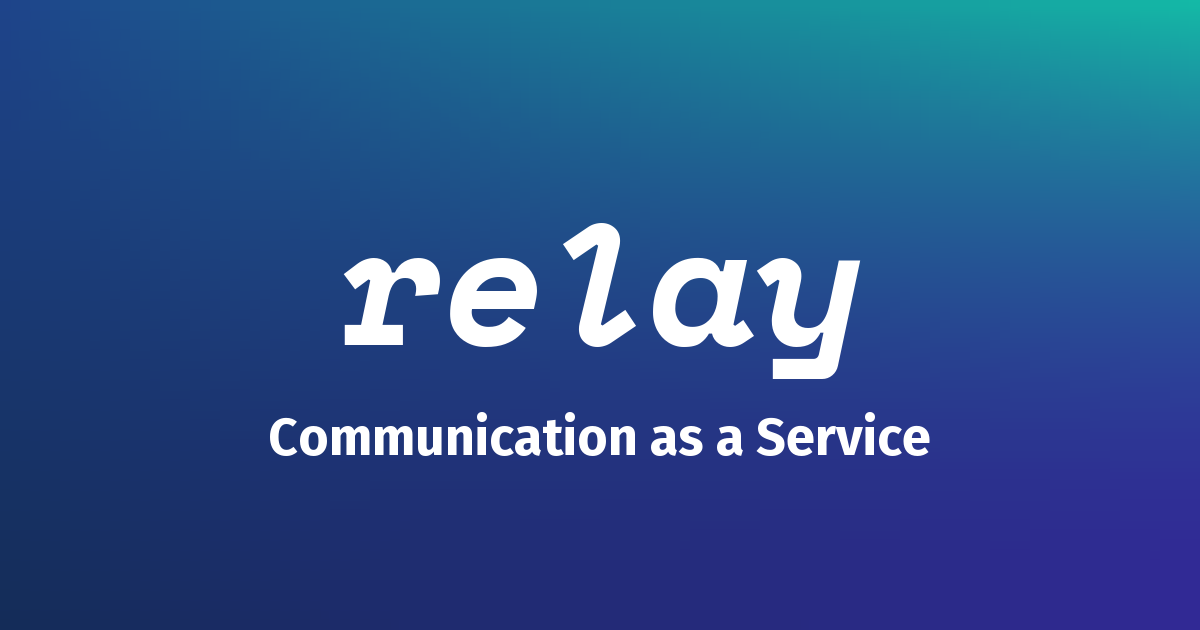
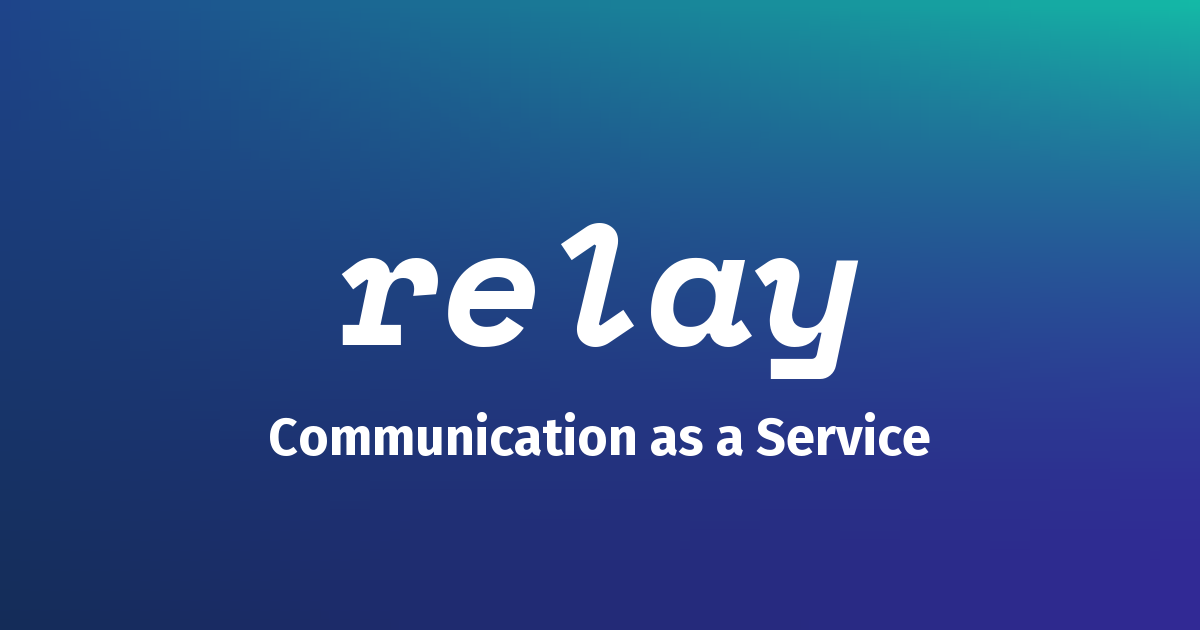
Align share card type by its ink
Place every line by its painted ink instead of font metrics. The header wordmark, descriptor, domain, and status share one left edge. The descriptor centers on the wordmark body, and a rule replaces the hanging glyph divider. Title blocks center exactly, and the brand lockup centers by ink.

diff --git a/abstract/open_graph.py b/abstract/open_graph.py
@@ -36,33 +36,58 @@ class OpenGraphImage:
     def font(self, name: str, size: int) -> ImageFont.FreeTypeFont:
         return ImageFont.truetype(str(self.FONTS_DIR / name), size)
 
-    def draw_wordmark(self, draw: ImageDraw.ImageDraw, label: str) -> None:
-        """Draw the relay wordmark and a label on the same baseline."""
-        left = self.PADDING_PX - 4
-        wordmark = self.font("space-mono-700-italic.ttf", 58)
-        draw.text(
-            (left, self.HEADER_BASELINE_PX),
-            "relay",
-            font=wordmark,
-            fill=self.INK,
-            anchor="ls",
+    def draw_ink_left(
+        self,
+        image: Image.Image,
+        x: float,
+        baseline: float,
+        text: str,
+        font: ImageFont.FreeTypeFont,
+        fill: tuple[int, ...],
+    ) -> float:
+        """Composite text with its leftmost ink on `x` and return its right edge."""
+        layer = Image.new("RGBA", (self.WIDTH_PX, self.HEIGHT_PX), (0, 0, 0, 0))
+        ImageDraw.Draw(layer).text(
+            (0, baseline), text, font=font, fill=fill, anchor="ls"
         )
+        left, _top, right, _bottom = layer.getbbox()
+        image.alpha_composite(layer, (round(x - left), 0))
+        return x + right - left
+
+    def draw_wordmark(self, image: Image.Image, label: str) -> None:
+        """Draw the relay wordmark with a descriptor beside it."""
+        baseline = self.HEADER_BASELINE_PX
+        wordmark_font = self.font("space-mono-700-italic.ttf", 58)
         label_font = self.font("fira-sans-500.ttf", 28)
-        left += draw.textlength("relay", font=wordmark) + 18
-        draw.text(
-            (left, self.HEADER_BASELINE_PX),
-            "|",
-            font=label_font,
-            fill=(*self.INK, 110),
-            anchor="ls",
+        right = self.draw_ink_left(
+            image, self.PADDING_PX, baseline, "relay", wordmark_font, self.INK
         )
-        left += draw.textlength("|", font=label_font) + 18
-        draw.text(
-            (left, self.HEADER_BASELINE_PX),
+        draw = ImageDraw.Draw(image)
+        divider = right + 20
+        label_box = draw.textbbox((0, baseline), label, font=label_font, anchor="ls")
+        x_height = draw.textbbox((0, baseline), "rea", font=wordmark_font, anchor="ls")
+        # Center the descriptor on the wordmark's lowercase body instead of its
+        # baseline, so the pair reads as one lockup.
+        label_baseline = (
+            baseline
+            + (x_height[1] + x_height[3]) / 2
+            - (label_box[1] + label_box[3]) / 2
+        )
+        label_box = draw.textbbox(
+            (0, label_baseline), label, font=label_font, anchor="ls"
+        )
+        draw.rounded_rectangle(
+            (divider, label_box[1], divider + 3, label_box[3]),
+            radius=1.5,
+            fill=(*self.INK, 110),
+        )
+        self.draw_ink_left(
+            image,
+            divider + 20 + 3,
+            label_baseline,
             label,
-            font=label_font,
-            fill=(*self.INK, 200),
-            anchor="ls",
+            label_font,
+            (*self.INK, 200),
         )
 
     def background(self) -> Image.Image:
@@ -121,21 +146,34 @@ class BrandImage(OpenGraphImage):
     TAGLINE_BASELINE_PX: typing.ClassVar[int] = 455
 
     def draw(self, image: Image.Image) -> None:
-        draw = ImageDraw.Draw(image)
-        center_x = self.WIDTH_PX / 2
-        draw.text(
-            (center_x, self.WORDMARK_BASELINE_PX),
+        self.draw_centered(
+            image,
             self.WORDMARK,
-            font=self.font("space-mono-700-italic.ttf", self.WORDMARK_SIZE_PX),
-            fill=self.INK,
-            anchor="ms",
+            self.font("space-mono-700-italic.ttf", self.WORDMARK_SIZE_PX),
+            self.WORDMARK_BASELINE_PX,
         )
-        draw.text(
-            (center_x, self.TAGLINE_BASELINE_PX),
+        self.draw_centered(
+            image,
             self.TAGLINE,
-            font=self.font("fira-sans-700.ttf", self.TAGLINE_SIZE_PX),
-            fill=self.INK,
-            anchor="ms",
+            self.font("fira-sans-700.ttf", self.TAGLINE_SIZE_PX),
+            self.TAGLINE_BASELINE_PX,
+        )
+
+    def draw_centered(
+        self,
+        image: Image.Image,
+        text: str,
+        font: ImageFont.FreeTypeFont,
+        baseline: float,
+    ) -> None:
+        """Center a line on the card by its ink, not its advance width."""
+        layer = Image.new("RGBA", (self.WIDTH_PX, self.HEIGHT_PX), (0, 0, 0, 0))
+        ImageDraw.Draw(layer).text(
+            (0, baseline), text, font=font, fill=self.INK, anchor="ls"
+        )
+        left, _top, right, _bottom = layer.getbbox()
+        image.alpha_composite(
+            layer, (round((self.WIDTH_PX - (right - left)) / 2 - left), 0)
         )
 
 
@@ -156,27 +194,26 @@ class TitleImage(OpenGraphImage):
     TITLE_FONT: typing.ClassVar[str] = "fira-sans-700.ttf"
 
     def draw(self, image: Image.Image) -> None:
-        draw = ImageDraw.Draw(image)
-        self.draw_wordmark(draw, "communication as a service")
-        self.draw_title(draw)
+        self.draw_wordmark(image, "communication as a service")
+        self.draw_title(image)
 
-    def draw_title(self, draw: ImageDraw.ImageDraw) -> None:
+    def draw_title(self, image: Image.Image) -> None:
+        draw = ImageDraw.Draw(image)
         font, lines = self.fit_title(draw)
         spacing = round(font.size * self.TITLE_SPACING_RATIO)
         text = "\n".join(lines)
-        box = draw.multiline_textbbox((0, 0), text, font=font, spacing=spacing)
-        top = (
-            (self.TITLE_TOP_PX + self.TITLE_BOTTOM_PX) / 2
-            - (box[3] - box[1]) / 2
-            - box[1]
+        # Measure the painted ink, not the em box, so wrapping and descenders
+        # cannot shift the block off center.
+        layer = Image.new("RGBA", (self.WIDTH_PX, self.HEIGHT_PX), (0, 0, 0, 0))
+        ImageDraw.Draw(layer).multiline_text(
+            (0, 0), text, font=font, fill=self.INK, spacing=spacing
         )
-        draw.multiline_text(
-            (self.PADDING_PX - 4, top),
-            text,
-            font=font,
-            fill=self.INK,
-            spacing=spacing,
+        left, top, _right, bottom = layer.getbbox()
+        x = round(self.PADDING_PX - left)
+        y = round(
+            (self.TITLE_TOP_PX + self.TITLE_BOTTOM_PX) / 2 - (bottom - top) / 2 - top
         )
+        image.alpha_composite(layer, (x, y))
 
     def fit_title(
         self, draw: ImageDraw.ImageDraw

diff --git a/domains/check/open_graph.py b/domains/check/open_graph.py
@@ -38,26 +38,27 @@ class DomainCheckImage(OpenGraphImage):
         return self.check.tier.accent
 
     def draw(self, image: Image.Image) -> None:
+        self.draw_header(image)
+        self.draw_domain(image)
+        self.draw_status(image)
+        self.draw_tier(image, ImageDraw.Draw(image))
+
+    def draw_header(self, image) -> None:
+        self.draw_wordmark(image, "email domain check")
+
+    def draw_domain(self, image) -> None:
         draw = ImageDraw.Draw(image)
-        self.draw_header(draw)
-        self.draw_domain(draw)
-        self.draw_status(draw)
-        self.draw_tier(image, draw)
-
-    def draw_header(self, draw) -> None:
-        self.draw_wordmark(draw, "email domain check")
-
-    def draw_domain(self, draw) -> None:
         name = self.check.name
         for size in range(116, 42, -2):
             candidate = self.font("fira-sans-700.ttf", size)
             if draw.textlength(name, font=candidate) <= self.TEXT_WIDTH_PX:
-                draw.text(
-                    (self.PADDING_PX - 4, self.DOMAIN_BASELINE_PX),
+                self.draw_ink_left(
+                    image,
+                    self.PADDING_PX,
+                    self.DOMAIN_BASELINE_PX,
                     name,
-                    font=candidate,
-                    fill=self.INK,
-                    anchor="ls",
+                    candidate,
+                    self.INK,
                 )
                 return
         head, _, tail = name.rpartition(".")
@@ -68,19 +69,21 @@ class DomainCheckImage(OpenGraphImage):
                     draw.textlength(f"{head}.", font=candidate) <= self.TEXT_WIDTH_PX
                     and draw.textlength(tail, font=candidate) <= self.TEXT_WIDTH_PX
                 ):
-                    draw.text(
-                        (self.PADDING_PX - 4, self.DOMAIN_BASELINE_PX - size - 12),
+                    self.draw_ink_left(
+                        image,
+                        self.PADDING_PX,
+                        self.DOMAIN_BASELINE_PX - size - 12,
                         f"{head}.",
-                        font=candidate,
-                        fill=self.INK,
-                        anchor="ls",
+                        candidate,
+                        self.INK,
                     )
-                    draw.text(
-                        (self.PADDING_PX - 4, self.DOMAIN_BASELINE_PX),
+                    self.draw_ink_left(
+                        image,
+                        self.PADDING_PX,
+                        self.DOMAIN_BASELINE_PX,
                         tail,
-                        font=candidate,
-                        fill=self.INK,
-                        anchor="ls",
+                        candidate,
+                        self.INK,
                     )
                     return
         candidate = self.font("fira-sans-700.ttf", 42)
@@ -90,21 +93,23 @@ class DomainCheckImage(OpenGraphImage):
             and draw.textlength(f"{trimmed}…", font=candidate) > self.TEXT_WIDTH_PX
         ):
             trimmed = trimmed[:-1]
-        draw.text(
-            (self.PADDING_PX - 4, self.DOMAIN_BASELINE_PX),
+        self.draw_ink_left(
+            image,
+            self.PADDING_PX,
+            self.DOMAIN_BASELINE_PX,
             f"{trimmed}…",
-            font=candidate,
-            fill=self.INK,
-            anchor="ls",
+            candidate,
+            self.INK,
         )
 
-    def draw_status(self, draw) -> None:
-        draw.text(
-            (self.PADDING_PX, self.STATUS_BASELINE_PX),
+    def draw_status(self, image) -> None:
+        self.draw_ink_left(
+            image,
+            self.PADDING_PX,
+            self.STATUS_BASELINE_PX,
             self.check.status_line,
-            font=self.font("fira-sans-500.ttf", 36),
-            fill=(*self.INK, 225),
-            anchor="ls",
+            self.font("fira-sans-500.ttf", 36),
+            (*self.INK, 225),
         )
 
     def tier_ring(self, color: RGB) -> Image.Image:
